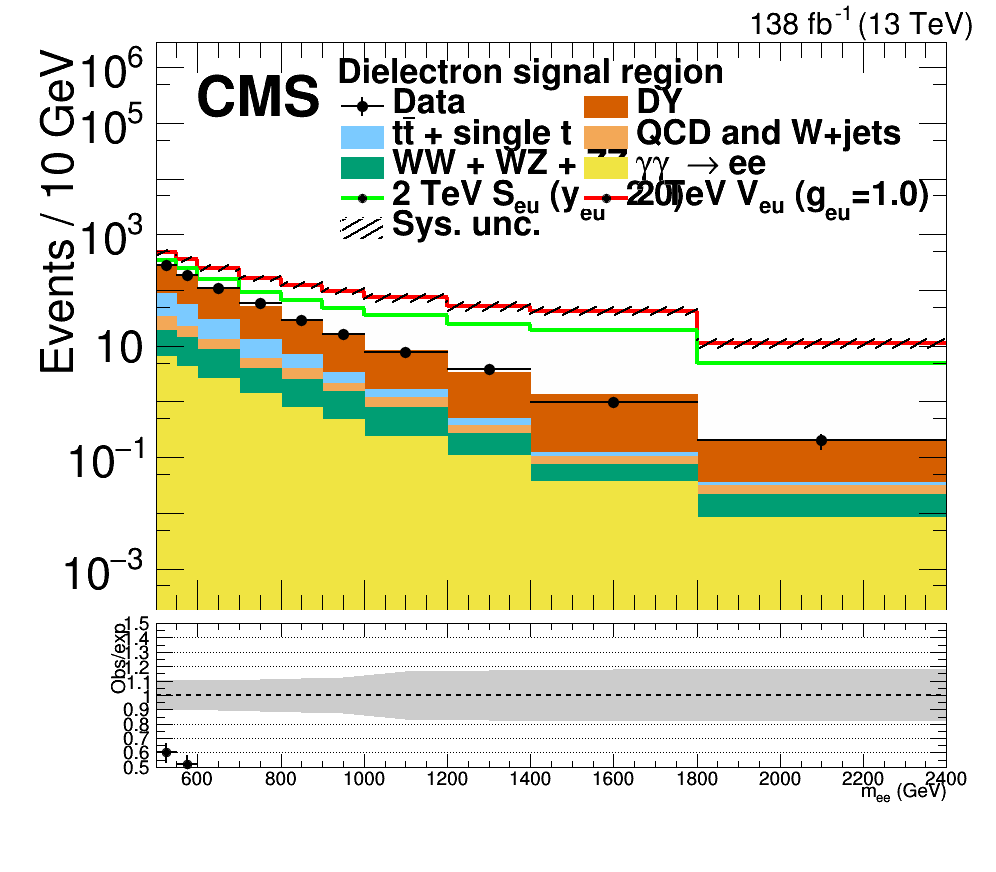
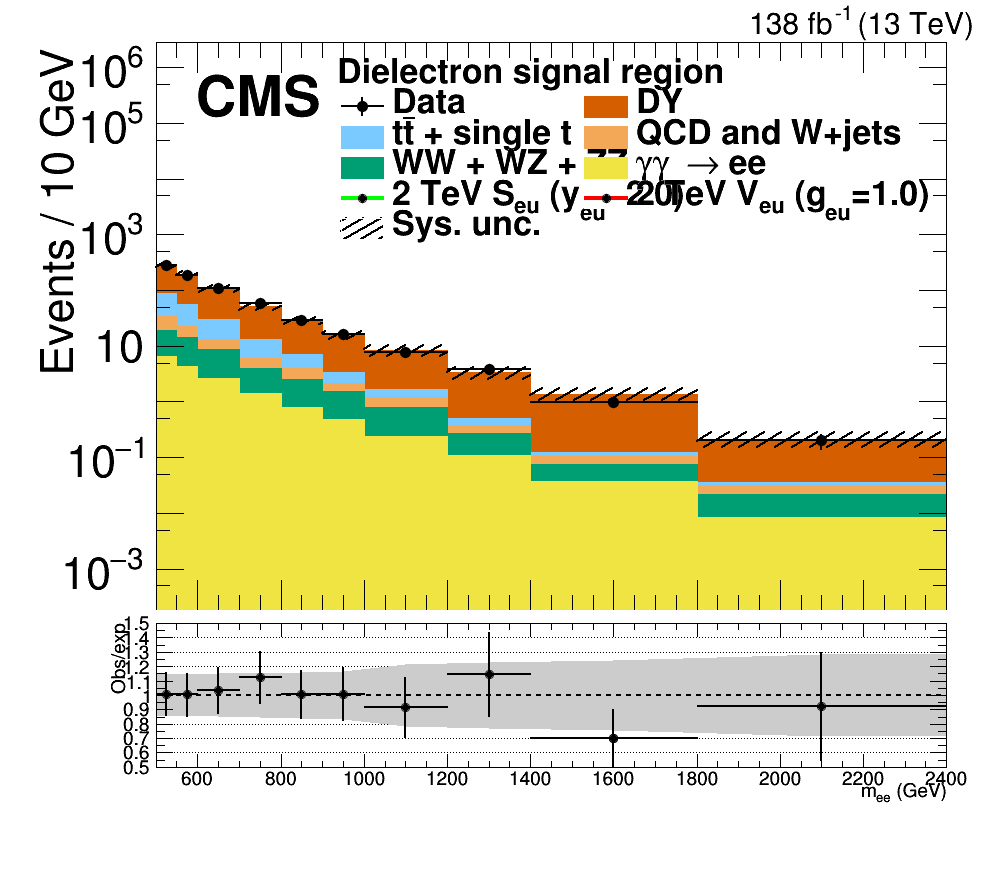
removing LQ from stack

diff --git a/plots/ElEl/draw_cmp_from_saved.C b/plots/ElEl/draw_cmp_from_saved.C
@@ -307,8 +307,8 @@ void draw_cmp_from_saved(){
     m_stack->Add(QCD_m);
     m_stack->Add(top_m);
     m_stack->Add(dy_m);
-     m_stack->Add(LQu_m);
-     m_stack->Add(LQu_vec_m);
+     //m_stack->Add(LQu_m);
+     //m_stack->Add(LQu_vec_m);
 
 
     THStack *cost_stack = new THStack("cost_stack", "Cos(#theta) Distribution: Data vs MC; Cos(#theta)_{r}");
@@ -317,8 +317,8 @@ void draw_cmp_from_saved(){
     cost_stack->Add(QCD_cost);
     cost_stack->Add(top_cost);
     cost_stack->Add(dy_cost);
-    cost_stack->Add(LQu_cost);
-    cost_stack->Add(LQu_vec_cost);
+    //cost_stack->Add(LQu_cost);
+    //cost_stack->Add(LQu_vec_cost);
 
 
     THStack *rap_stack = new THStack("rap_stack", "DiElectron Rapidity Distribution: Data vs MC; y");
@@ -327,8 +327,8 @@ void draw_cmp_from_saved(){
     rap_stack->Add(QCD_rap);
     rap_stack->Add(top_rap);
     rap_stack->Add(dy_rap);
-    rap_stack->Add(LQu_rap);
-    rap_stack->Add(LQu_vec_rap);
+    //rap_stack->Add(LQu_rap);
+    //rap_stack->Add(LQu_vec_rap);
 
 
 
